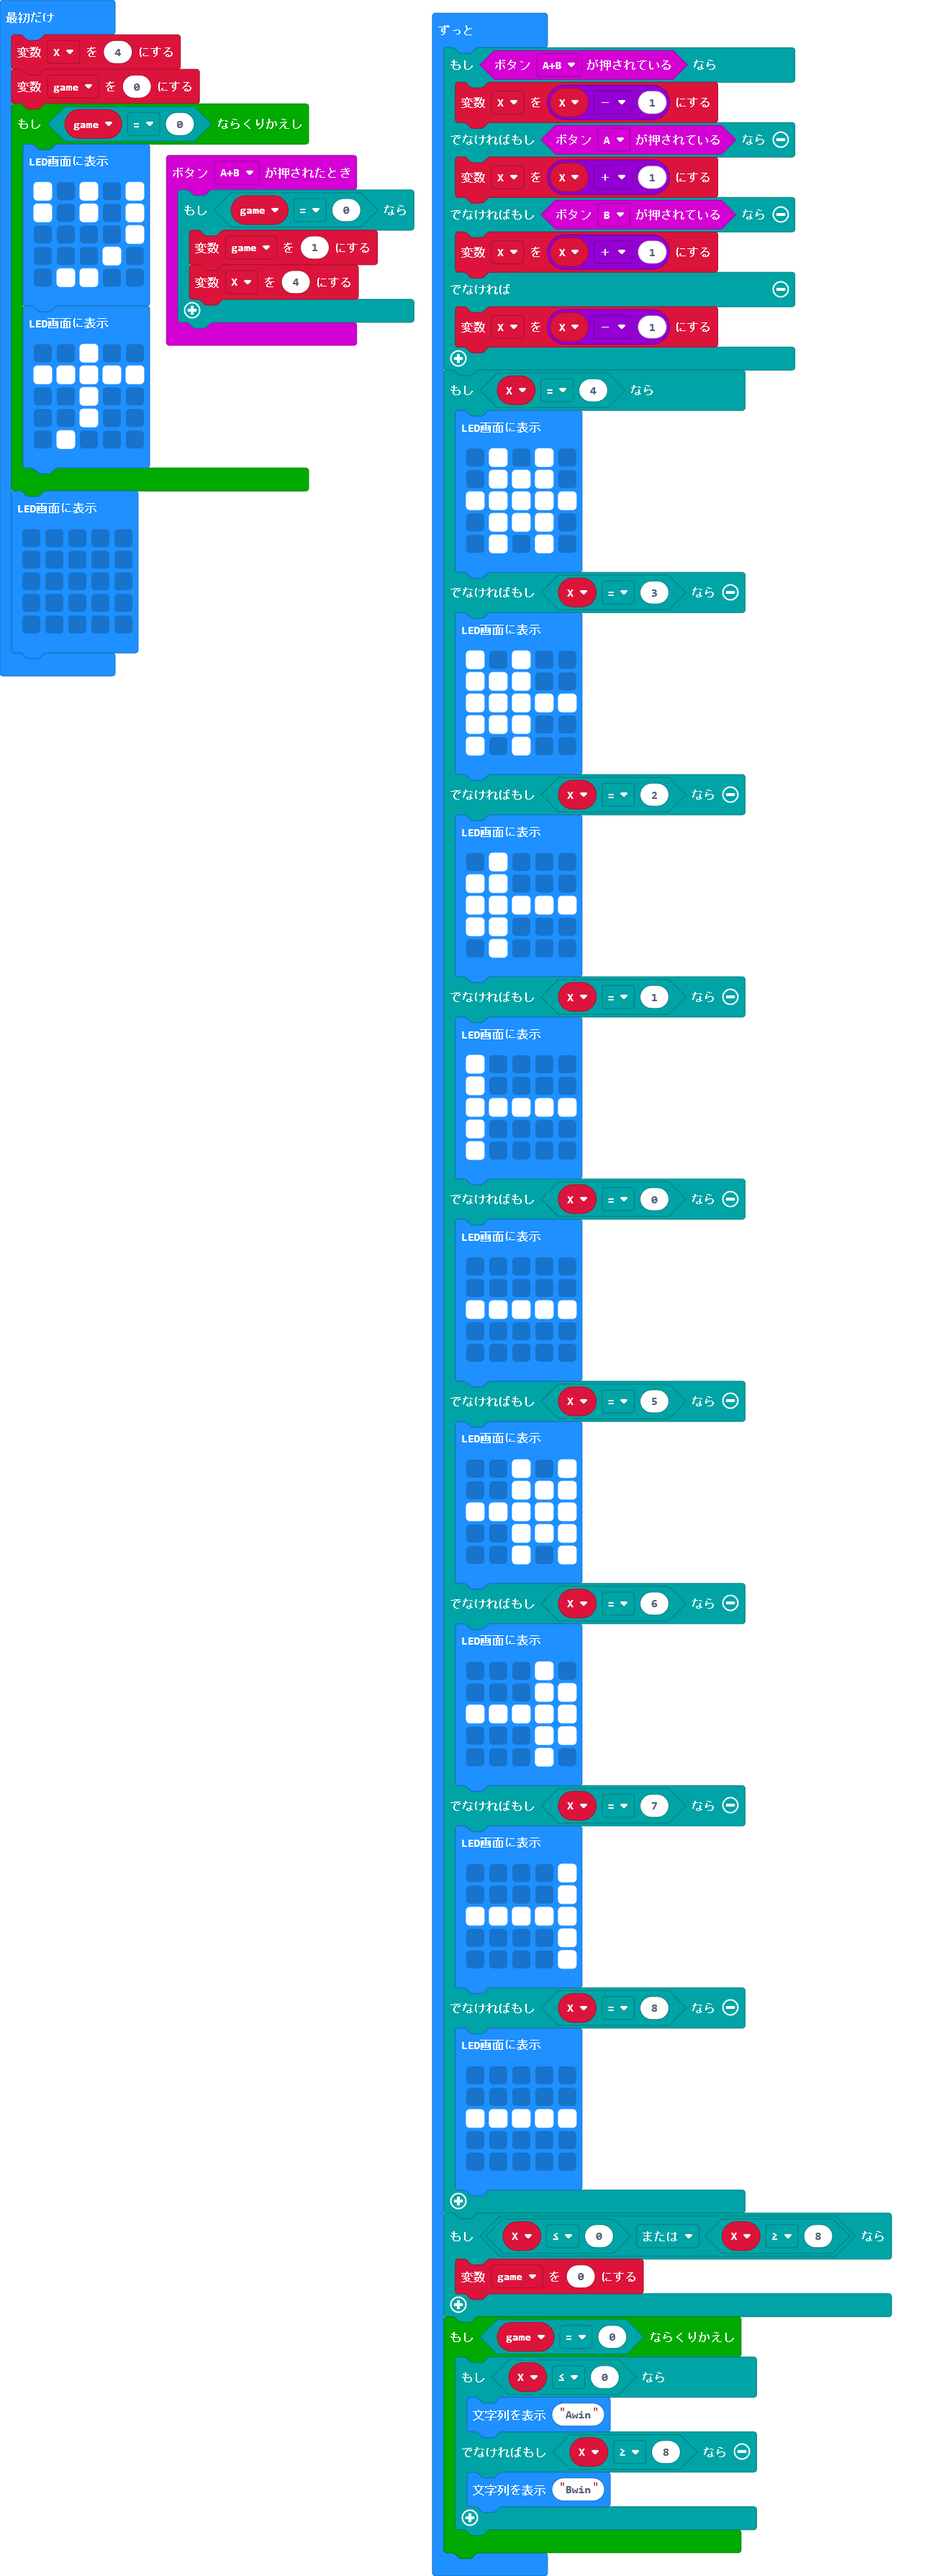
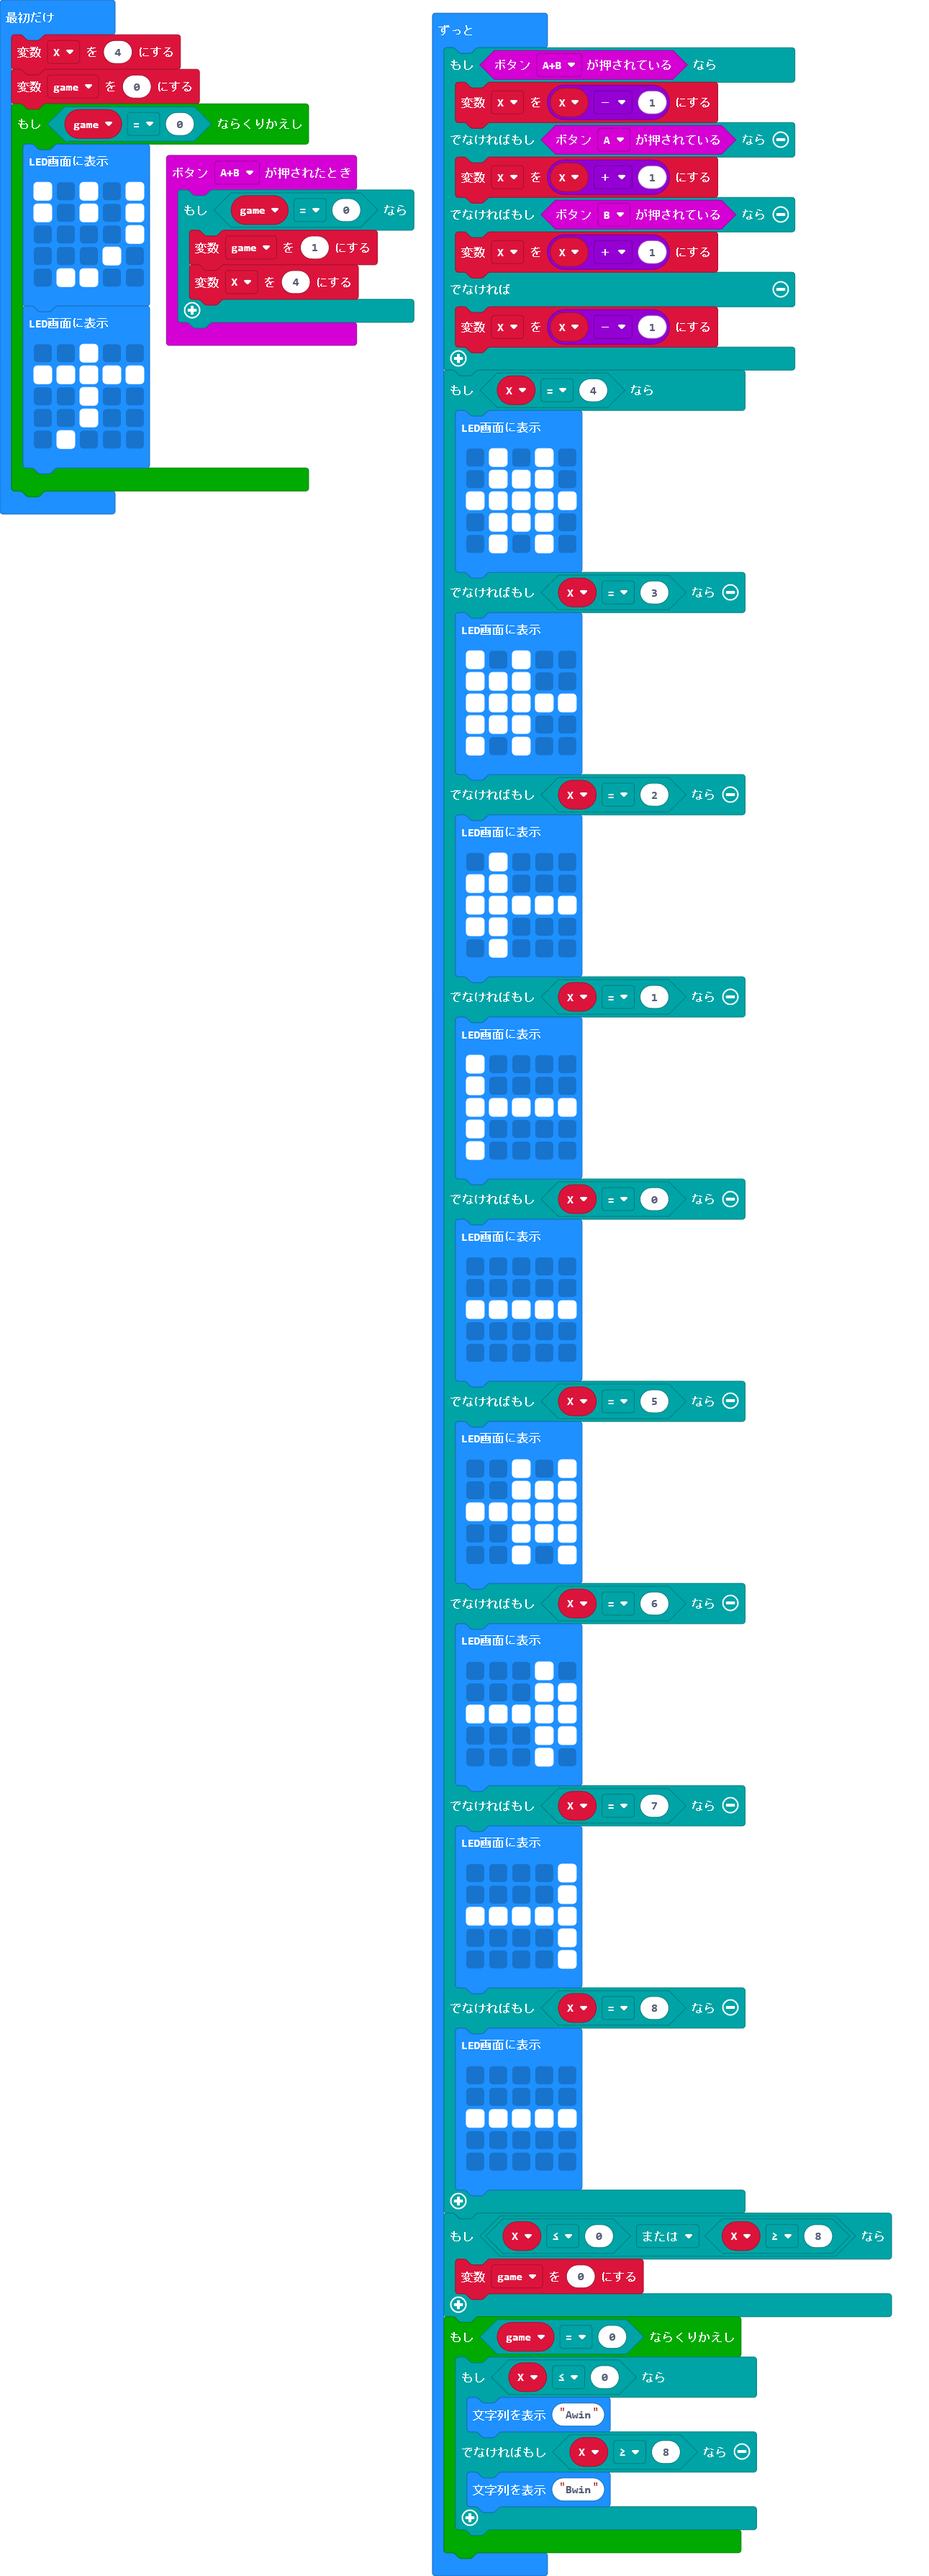
更新 main.blocks, main.ts

Changed region(s): [[0.0, 0.1861, 0.1549, 0.2791]]

diff --git a/main.ts b/main.ts
@@ -24,13 +24,6 @@ while (game2 == 0) {
         . # . . .
         `)
 }
-basic.showLeds(`
-    . . . . .
-    . . . . .
-    . . . . .
-    . . . . .
-    . . . . .
-    `)
 basic.forever(function () {
     if (input.buttonIsPressed(Button.AB)) {
         X = X - 1
